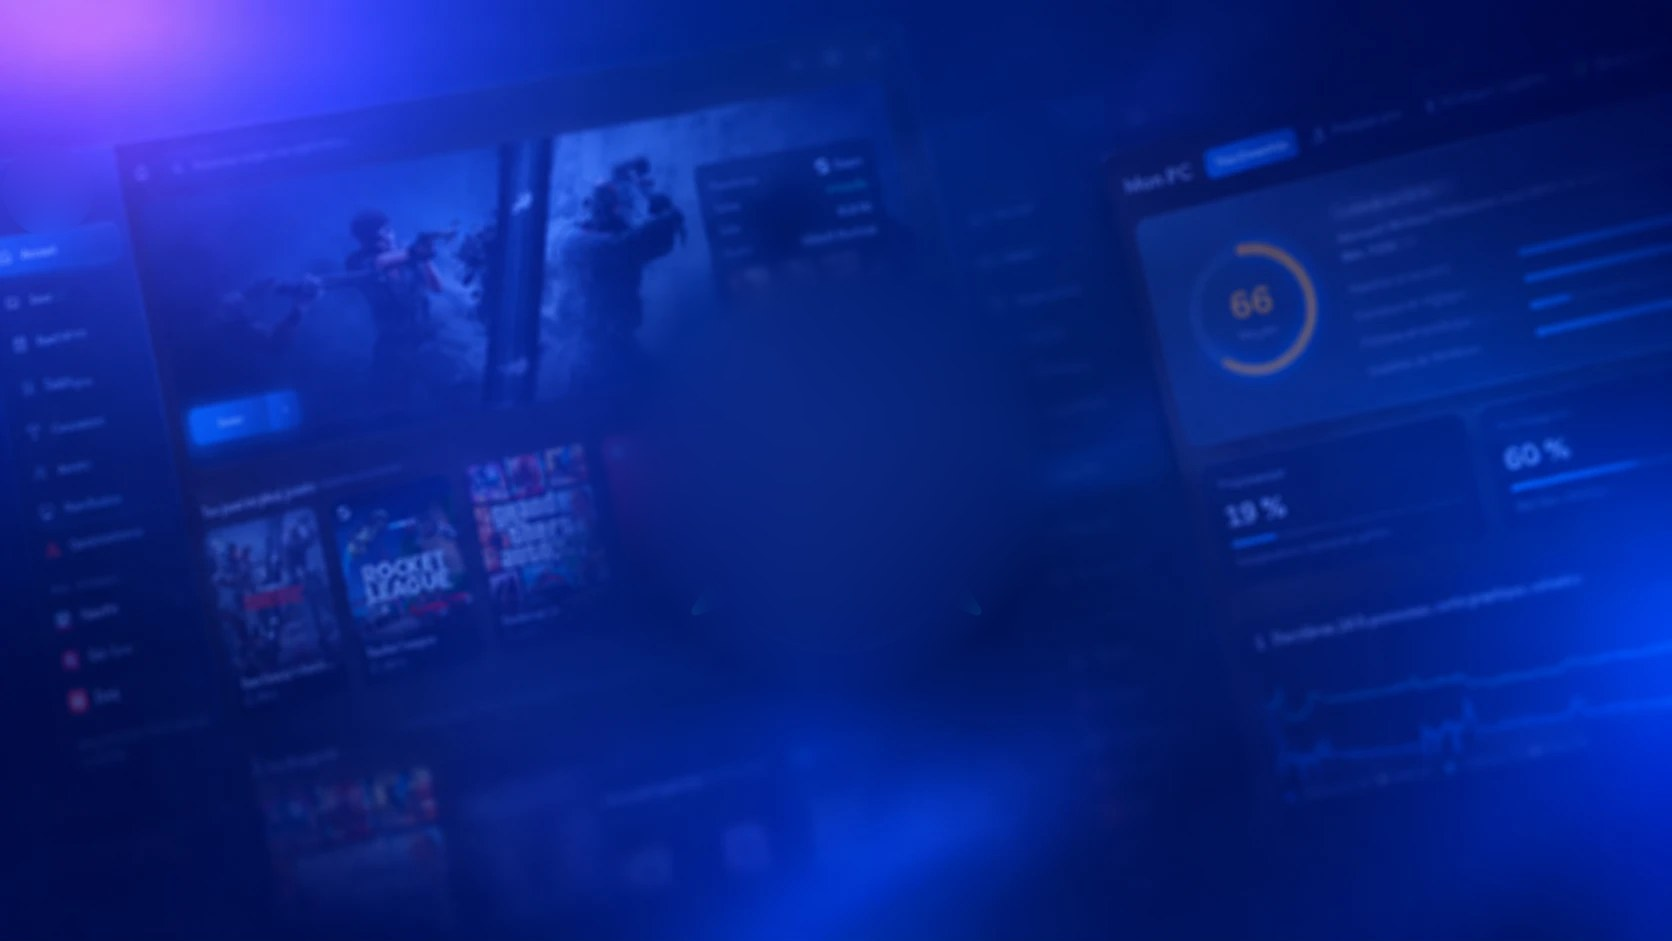
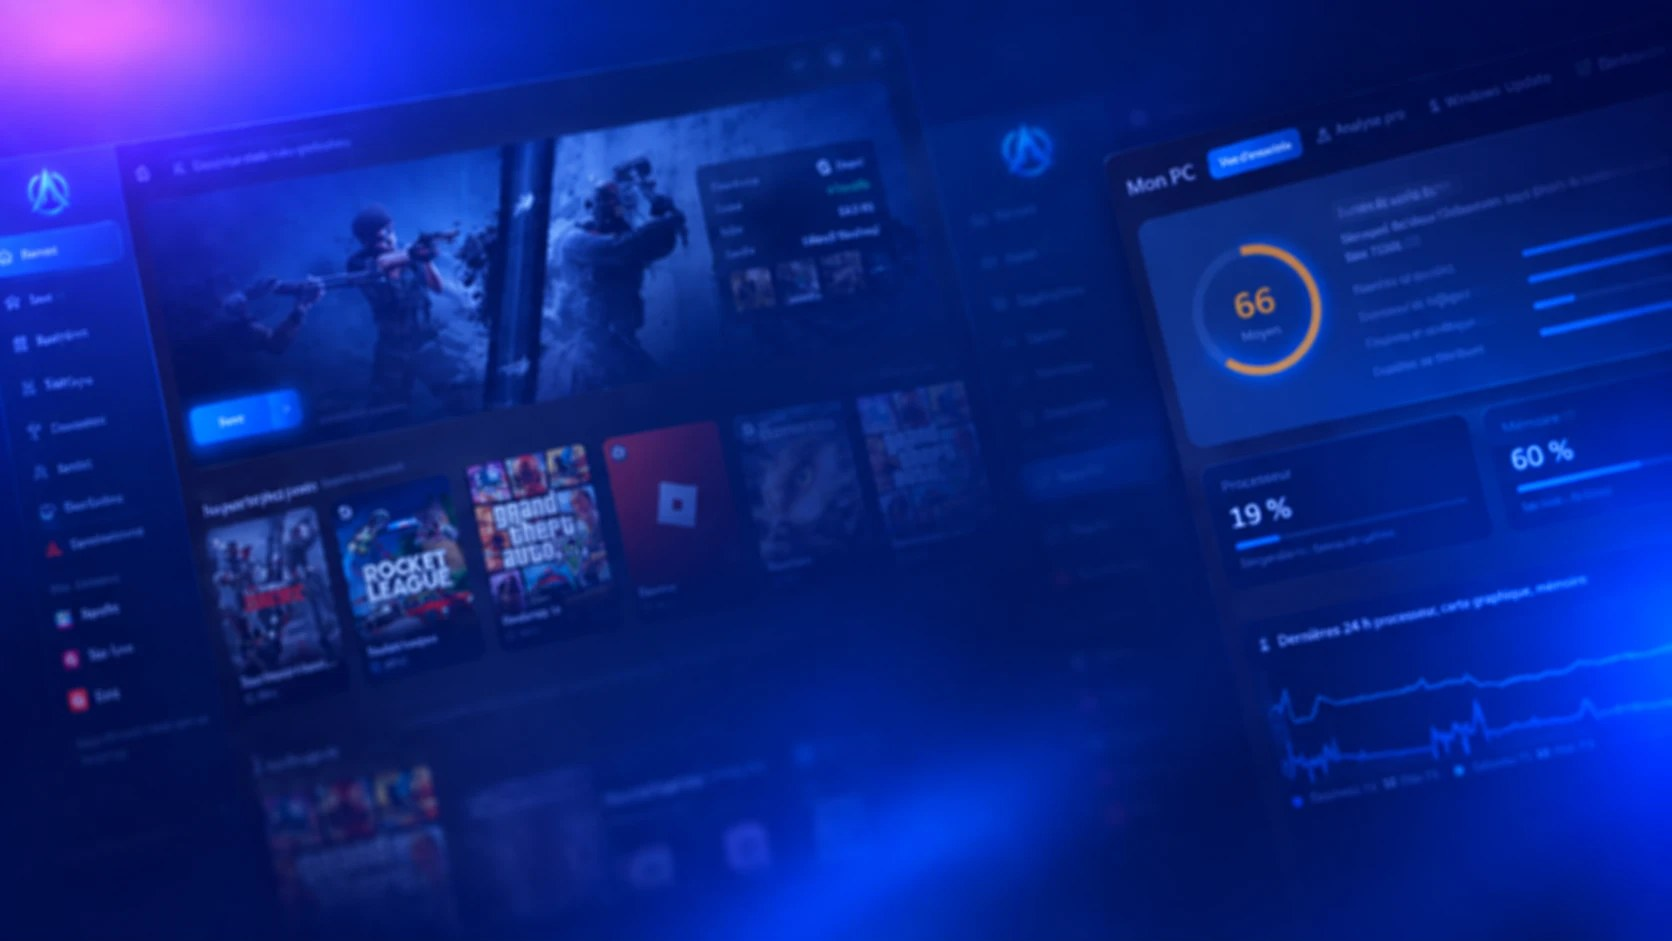
Site : fond = image fournie (#139)
Claude-Session: https://claude.ai/code/session_01GF8mGr7yTNhrvWDhdfGEFd

diff --git a/launcher-site/index.html b/launcher-site/index.html
@@ -63,7 +63,7 @@ p { margin: 0; }
 /* Héros */
 .hero { padding: 90px 0 40px; text-align: center; position: relative; isolation: isolate; }
 /* Image de fond en haut du site, fondue dans le noir vers le bas */
-.hero::before { content: ""; position: absolute; z-index: -1; left: 50%; width: 100vw; transform: translateX(-50%); top: -120px; height: calc(100% + 220px); background: linear-gradient(180deg, rgba(7, 6, 11, .3), rgba(7, 6, 11, .5)), url(assets/fond.jpg?v=2) center 30% / cover no-repeat; -webkit-mask-image: linear-gradient(180deg, #000 0%, #000 45%, rgba(0, 0, 0, .6) 70%, rgba(0, 0, 0, .2) 88%, transparent 100%); mask-image: linear-gradient(180deg, #000 0%, #000 45%, rgba(0, 0, 0, .6) 70%, rgba(0, 0, 0, .2) 88%, transparent 100%); }
+.hero::before { content: ""; position: absolute; z-index: -1; left: 50%; width: 100vw; transform: translateX(-50%); top: -120px; height: calc(100% + 220px); background: linear-gradient(180deg, rgba(7, 6, 11, .3), rgba(7, 6, 11, .5)), url(assets/fond.jpg?v=3) center 30% / cover no-repeat; -webkit-mask-image: linear-gradient(180deg, #000 0%, #000 45%, rgba(0, 0, 0, .6) 70%, rgba(0, 0, 0, .2) 88%, transparent 100%); mask-image: linear-gradient(180deg, #000 0%, #000 45%, rgba(0, 0, 0, .6) 70%, rgba(0, 0, 0, .2) 88%, transparent 100%); }
 .pill { display: inline-flex; align-items: center; gap: 8px; padding: 6px 14px; border-radius: 30px; font-size: 13.5px; font-weight: 600; color: #cfe7ff; }
 .pill b { width: 8px; height: 8px; border-radius: 50%; background: var(--ok); box-shadow: 0 0 10px var(--ok); }
 .hero h1 { font-size: clamp(40px, 7vw, 84px); font-weight: 850; margin: 22px auto 18px; max-width: 900px; }
